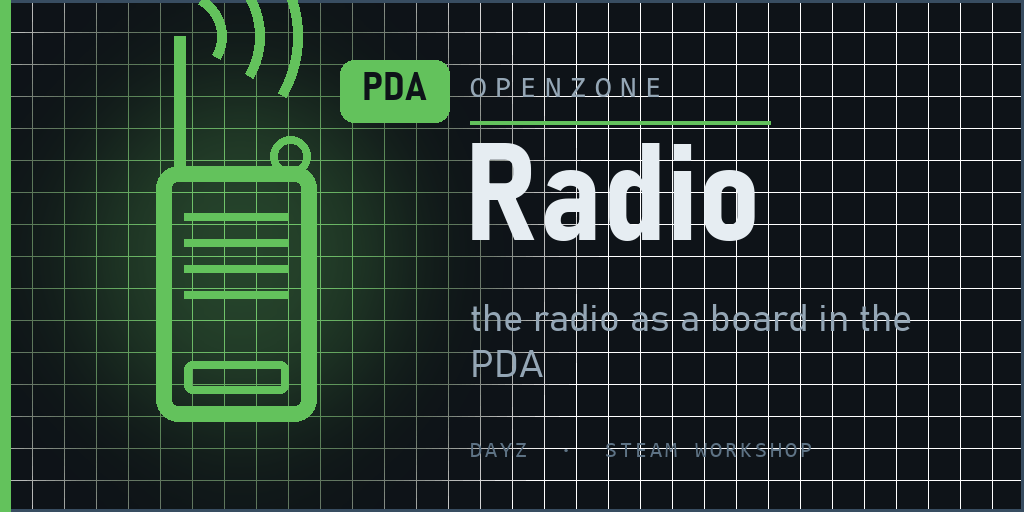
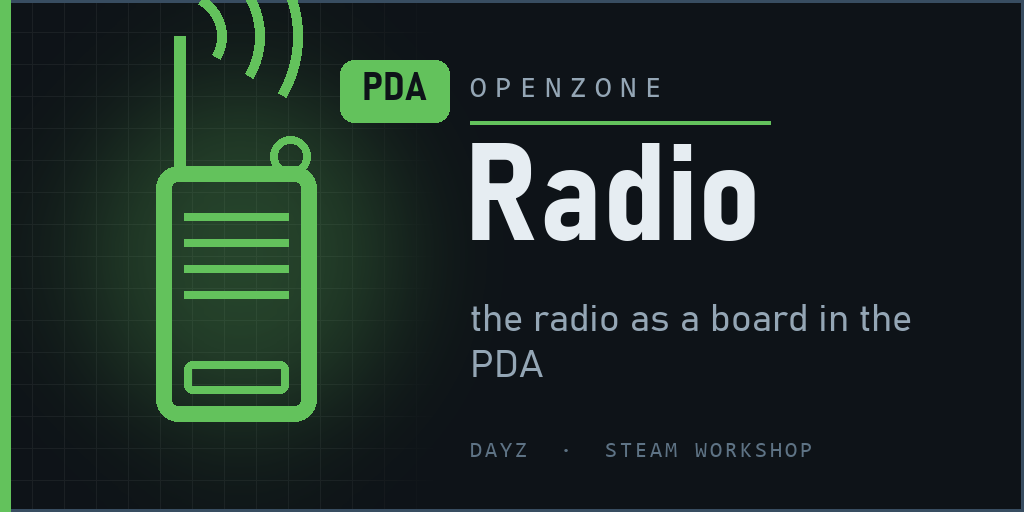
Packaging: readable Workshop titles, previews without the grid under the text
meta.cpp carries the item's Workshop title; the items are renamed from
their folder names to plain ones ("OpenZone Radio for PDA", "... for VPP
Admin Tools"). The preview keeps its grid under the icon only, fading
out before the text column, and names no server.

diff --git a/packaging/OpenZone_Radio_VPP/meta.cpp b/packaging/OpenZone_Radio_VPP/meta.cpp
@@ -1,3 +1,3 @@
 protocol = 1;
 publishedid = 3798437535;
-name = "OZ_Radio_VPP";
+name = "OpenZone Radio for VPP Admin Tools";

diff --git a/packaging/OpenZone_Radio_PDA/meta.cpp b/packaging/OpenZone_Radio_PDA/meta.cpp
@@ -1,3 +1,3 @@
 protocol = 1;
 publishedid = 3798437416;
-name = "OZ_Radio_PDA";
+name = "OpenZone Radio for PDA";
